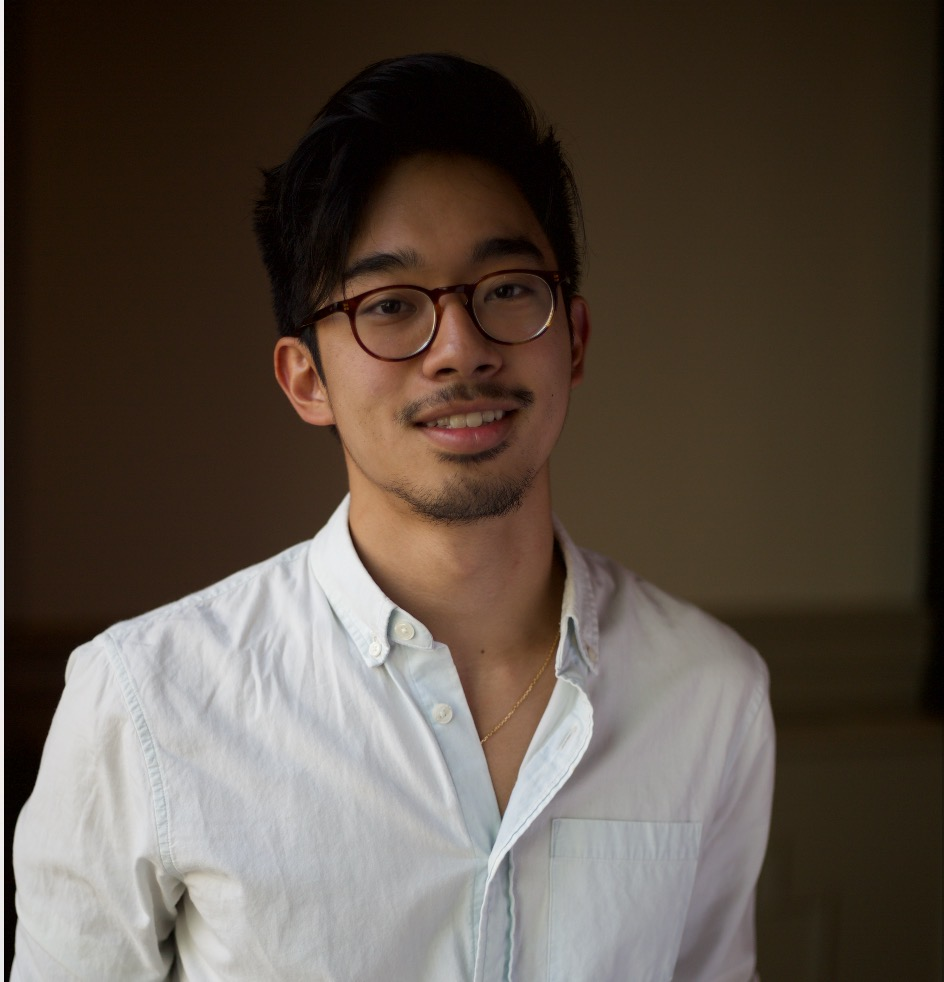
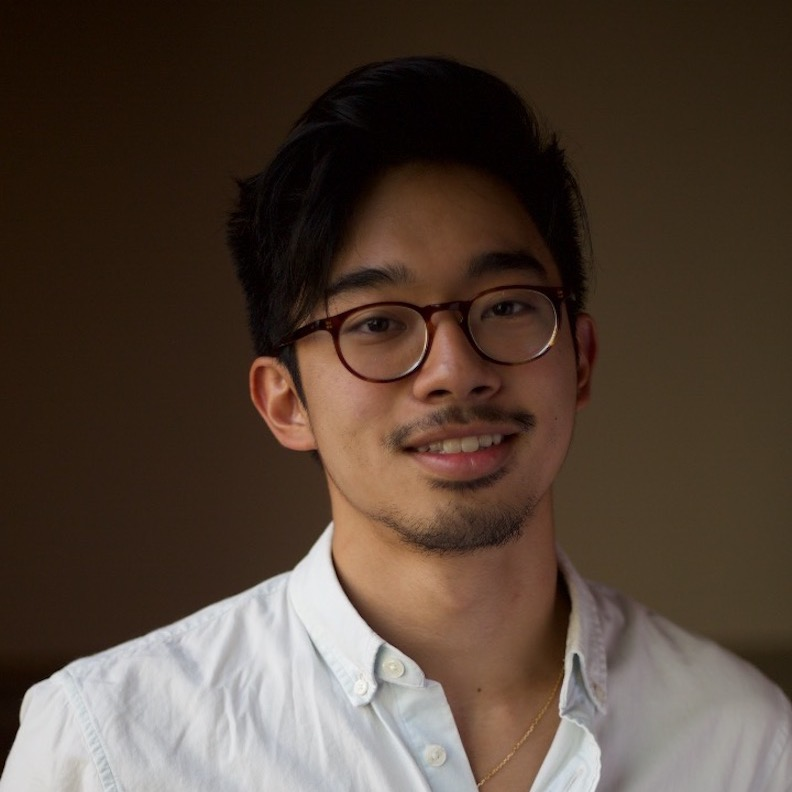
Update photos and add titles

diff --git a/team/index.html b/team/index.html
@@ -86,8 +86,10 @@
                         </div>
                         <div class="card-stacked">
                             <div class="card-content">
-                                <p class="flow-text">Sanjay Aneja, MD</p>
-                                <p>Assistant Professor of Therapeutic Radiology</p>
+                                <h4>Sanjay Aneja, MD</h4>
+                                <h5>Principal Investigator</h5>
+                                <br>
+                                <p>Hometown: Detroit, Michigan</p>
                             </div>
                             <div class="card-action center-align">
                                 <a class="waves-effect waves-light btn light-blue darken-2" href="mailto:sanjay.aneja@yale.edu">Email Me!</a>
@@ -100,12 +102,14 @@
                 <div class="col s12 l6">
                     <div class="card horizontal hoverable">
                         <div class="card-image">
-                            <img src="../img/Headshots/Daniel_Yang.jpeg" height="350px" alt="Daniel Yang">
+                            <img src="../img/Headshots/Daniel_Yang.jpeg" alt="Daniel Yang">
                         </div>
                         <div class="card-stacked">
                             <div class="card-content">
-                                <p class="flow-text">Daniel Yang</p>
-                                <p>FILLER TEXT</p>
+                                <h4>Daniel Yang, MD</h4>
+                                <h5>Resident Physician</h5>
+                                <br>
+                                <p></p>
                             </div>
                             <div class="card-action center-align">
                                 <a class="waves-effect waves-light btn light-blue darken-2" href="mailto:daniel.yang@yale.edu">Email Me!</a>
@@ -116,12 +120,14 @@
                 <div class="col s12 l6">
                     <div class="card horizontal hoverable">
                         <div class="card-image">
-                            <img src="../img/Headshots/Sarah_Gao.jpeg" height="350px" alt="Sarah Gao">
+                            <img src="../img/Headshots/Sarah_Gao.jpeg" alt="Sarah Gao">
                         </div>
                         <div class="card-stacked">
                             <div class="card-content">
-                                <p class="flow-text">Sarah Gao</p>
-                                <p>FILLER TEXT</p>
+                                <h4>Sarah Gao, MD</h4>
+                                <h5>Resident Physician</h5>
+                                <br>
+                                <p></p>
                             </div>
                             <div class="card-action center-align">
                                 <a class="waves-effect waves-light btn light-blue darken-2" href="mailto:sarah.gao@yale.edu">Email Me!</a>
@@ -138,8 +144,10 @@
                         </div>
                         <div class="card-stacked">
                             <div class="card-content">
-                                <p class="flow-text">Rachel Choi</p>
-                                <p>FILLER TEXT</p>
+                                <h4>Rachel Choi, BS</h4>
+                                <h5>Medical Student</h5>
+                                <br>
+                                <p></p>
                             </div>
                             <div class="card-action center-align">
                                 <a class="waves-effect waves-light btn light-blue darken-2" href="mailto:rachel.choi@yale.edu">Email Me!</a>
@@ -154,8 +162,10 @@
                         </div>
                         <div class="card-stacked">
                             <div class="card-content">
-                                <p class="flow-text">Sachin Umrao</p>
-                                <p>FILLER TEXT</p>
+                                <h4>Sachin Umrao, PhD</h4>
+                                <h5>PostDoc</h5>
+                                <br>
+                                <p></p>
                             </div>
                             <div class="card-action center-align">
                                 <a class="waves-effect waves-light btn light-blue darken-2" href="mailto:sachin.umrao@yale.edu">Email Me!</a>
@@ -168,12 +178,14 @@
                 <div class="col s12 l6">
                     <div class="card horizontal hoverable">
                         <div class="card-image">
-                            <img src="../img/Headshots/Enoch_chang.JPG" height="320px" alt="Enoch Chang">
+                            <img src="../img/Headshots/Enoch_chang.JPG" alt="Enoch Chang">
                         </div>
                         <div class="card-stacked">
                             <div class="card-content">
-                                <p class="flow-text">Enoch Chang</p>
-                                <p>FILLER TEXT</p>
+                                <h4>Enoch Chang, BA</h4>
+                                <h5>Medical Student</h5>
+                                <br>
+                                <p></p>
                             </div>
                             <div class="card-action center-align">
                                 <a class="waves-effect waves-light btn light-blue darken-2" href="mailto:enoch.chang@yale.edu">Email Me!</a>
@@ -188,11 +200,51 @@
                         </div>
                         <div class="card-stacked">
                             <div class="card-content">
-                                <p class="flow-text">Justin Du</p>
-                                <p>FILLER TEXT</p>
+                                <h4>Justin Du</h4>
+                                <h5>Undergraduate</h5>
+                                <br>
+                                <p></p>
                             </div>
                             <div class="card-action center-align">
                                 <a class="waves-effect waves-light btn light-blue darken-2" href="mailto:justin.du0@yale.edu">Email Me!</a>
+                            </div>
+                        </div>
+                    </div>
+                </div>
+            </div>
+            <div class="row">
+                <div class="col s12 l6">
+                    <div class="card horizontal hoverable">
+                        <div class="card-image">
+                            <img src="../img/Headshots/Gabriel_saruhashi.JPG" alt="Gabriel Saruhashi">
+                        </div>
+                        <div class="card-stacked">
+                            <div class="card-content">
+                                <h4>Gabriel Saruhashi</h4>
+                                <h5>Undergraduate</h5>
+                                <br>
+                                <p></p>
+                            </div>
+                            <div class="card-action center-align">
+                                <a class="waves-effect waves-light btn light-blue darken-2" href="mailto:gabriel.saruhashi@yale.edu">Email Me!</a>
+                            </div>
+                        </div>
+                    </div>
+                </div>
+                <div class="col s12 l6">
+                    <div class="card horizontal hoverable">
+                        <div class="card-image">
+                            <img src="../img/Headshots/Krish_Moran.jpg" alt="Krish Moran">
+                        </div>
+                        <div class="card-stacked">
+                            <div class="card-content">
+                                <h4>Krish Moran</h4>
+                                <h5>Undergraduate</h5>
+                                <br>
+                                <p></p>
+                            </div>
+                            <div class="card-action center-align">
+                                <a class="waves-effect waves-light btn light-blue darken-2" href="">Email Me!</a>
                             </div>
                         </div>
                     </div>
